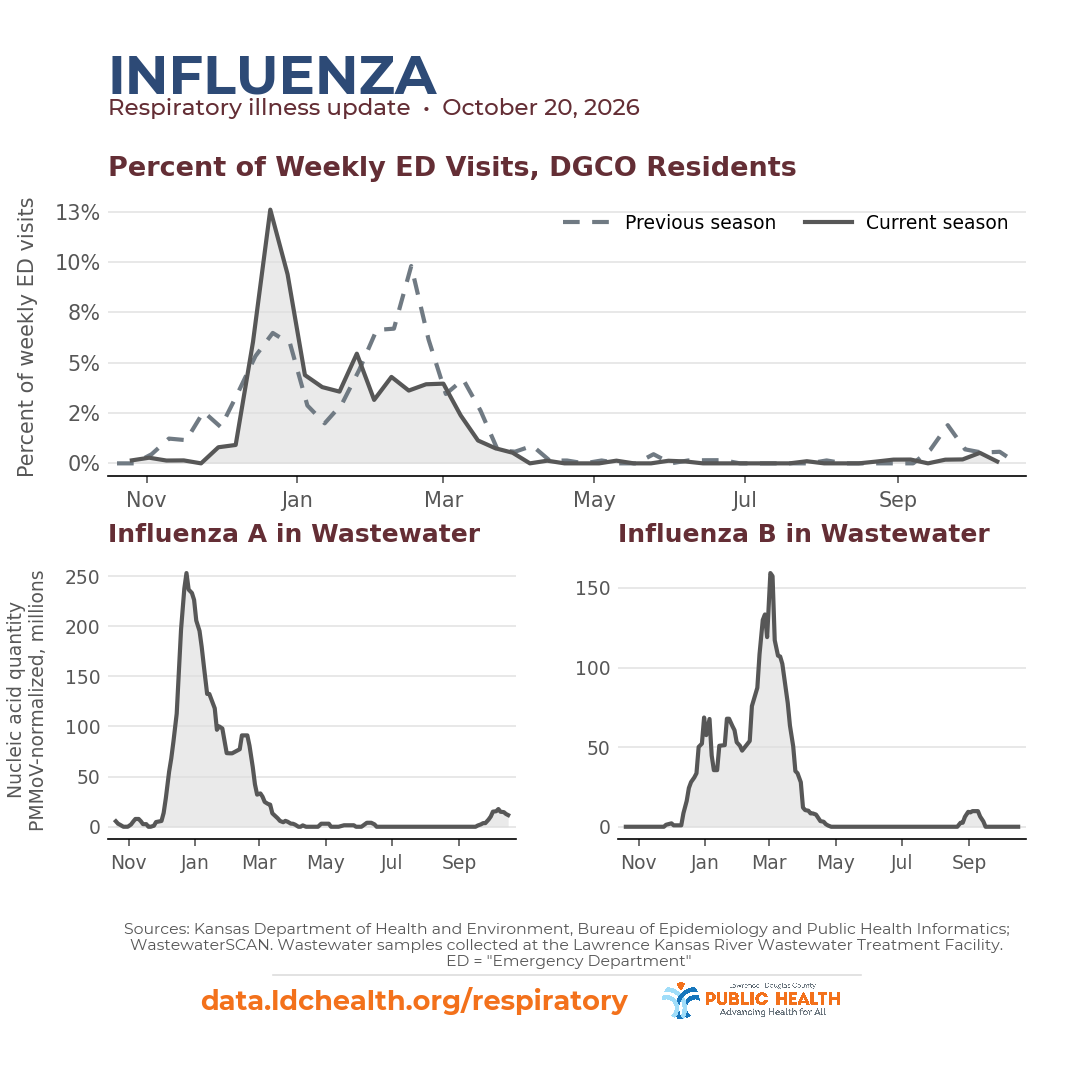
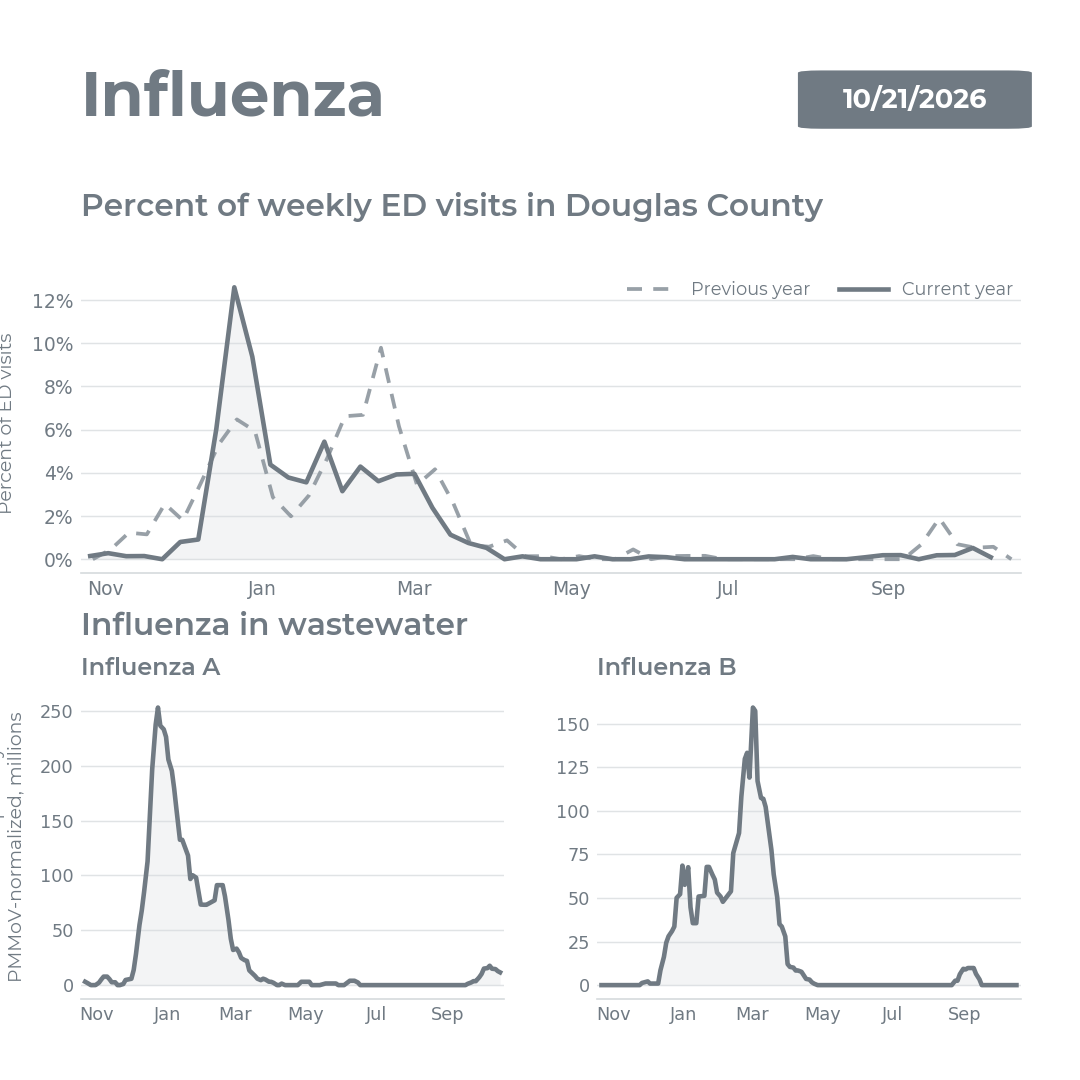
20261021 update; adding all 3 friendface tiles

diff --git a/respiratory/index.html b/respiratory/index.html
@@ -63,7 +63,7 @@
           <span class="pathogen-card__dot"></span>
           <h3 class="pathogen-card__title">COVID-19 ED Visits and Wastewater Levels</h3>
         </div>
-        <p class="pathogen-card__desc">Emergency Department (ED) visit rate (as a percentage of all ED visits) for the current and previous season and wastewater viral activity levels for the current season. Both charts share the same date range.</p>
+        <p class="pathogen-card__desc">Emergency Department (ED) visit rate (as a percentage of all ED visits) for the current and previous season and wastewater viral activity levels for the current season.</p>
         <div class="chart-grid">
           <div class="chart-box">
             <h3>ED Visit Rate — This Year vs. Last Year</h3>
@@ -90,7 +90,7 @@
           <span class="pathogen-card__dot"></span>
           <h3 class="pathogen-card__title">Influenza ED Visits and Wastewater Levels</h3>
         </div>
-        <p class="pathogen-card__desc">Emergency Department (ED) visit rate (as a percentage of all ED visits) for the current and previous season and wastewater viral activity levels for the current season. Both charts share the same date range.</p>
+        <p class="pathogen-card__desc">Emergency Department (ED) visit rate (as a percentage of all ED visits) for the current and previous season and wastewater viral activity levels for the current season.</p>
         <div class="chart-grid">
           <div class="chart-box">
             <h3>ED Visit Rate — This Year vs. Last Year</h3>
@@ -117,7 +117,7 @@
           <span class="pathogen-card__dot"></span>
           <h3 class="pathogen-card__title">RSV ED Visits and Wastewater Levels</h3>
         </div>
-        <p class="pathogen-card__desc">Emergency Department (ED) visit rate (as a percentage of all ED visits) for the current and previous season and wastewater viral activity levels for the current season. Both charts share the same date range.</p>
+        <p class="pathogen-card__desc">Emergency Department (ED) visit rate (as a percentage of all ED visits) for the current and previous season and wastewater viral activity levels for the current season.</p>
         <div class="chart-grid">
           <div class="chart-box">
             <h3>ED Visit Rate — This Year vs. Last Year</h3>
